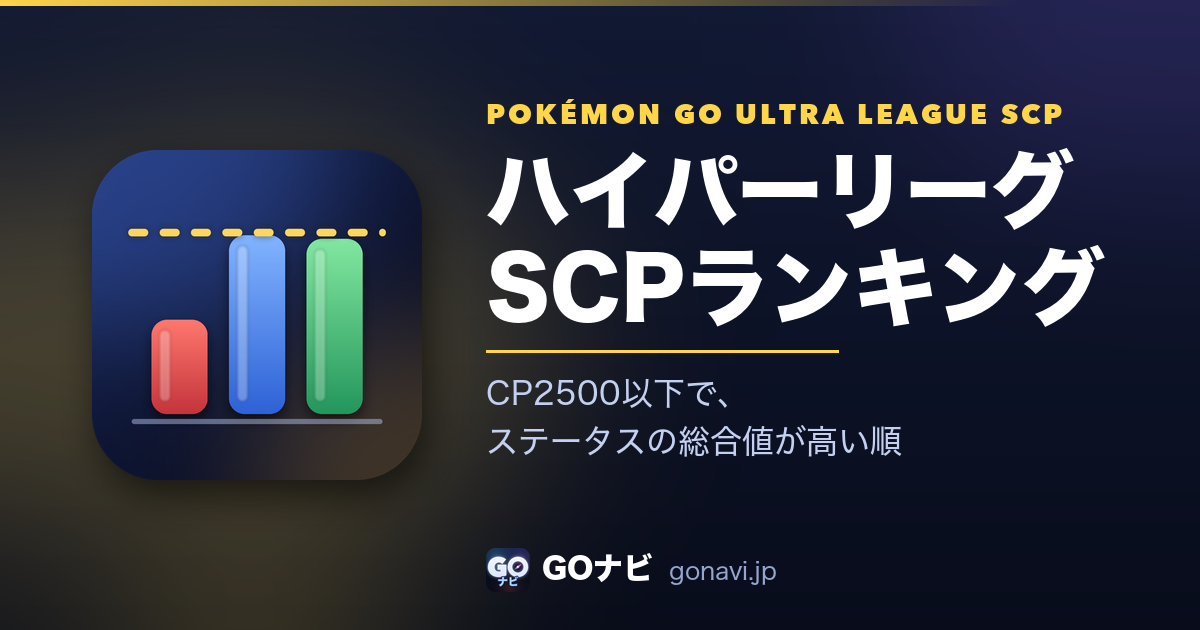
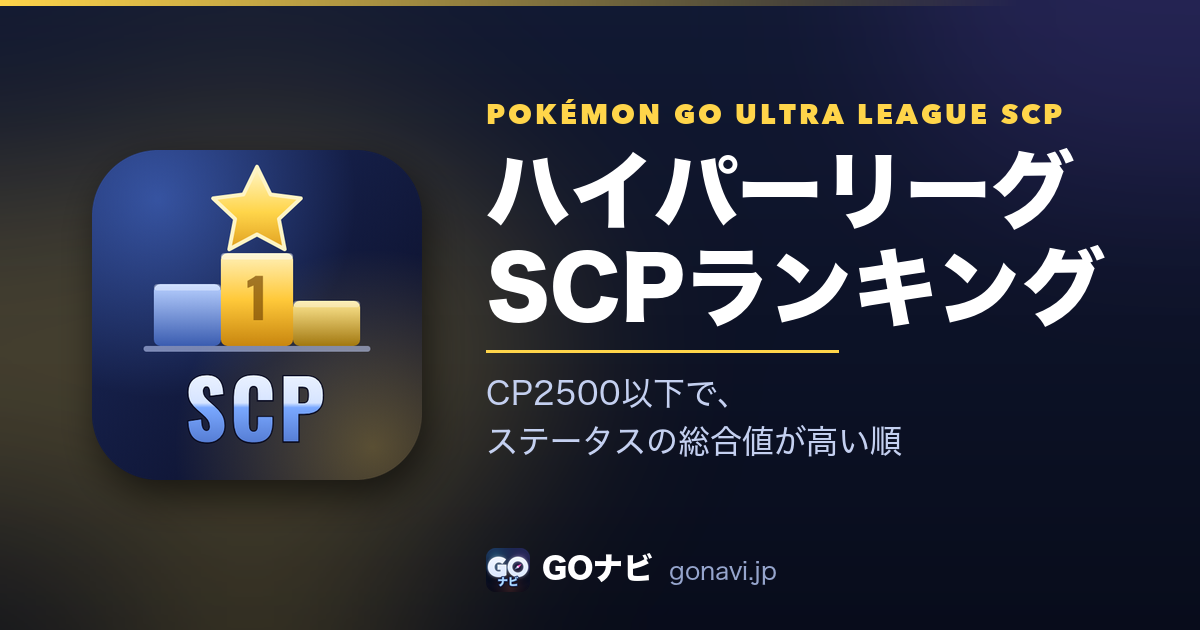
feat(SCPランキング): アイコンを表彰台＋SCPの文字に変更（タダシさん指示）・共有用画像も作り直し

Changed region(s): [[0.0925, 0.2714, 0.3392, 0.7238]]

diff --git a/scratchpad/icon_scp.html b/scratchpad/icon_scp.html
@@ -1,0 +1,49 @@
+<!DOCTYPE html>
+<html><head><meta charset="UTF-8">
+<!-- SCPランキングのアイコン（2026-11-12・タダシさん選択＝表彰台＋その下にSCPの文字）。
+     濃紺の地に、1位の台の上に金の星・2位＝スーパー（青）・3位＝ハイパー（黄）の台、下に「SCP」（白→青の金属の文字）。
+     画面なしブラウザで 512x512 を撮り、scratchpad/icon_round.py が四隅を落として4サイズに書き出す（?prev=1 で見本の並び） -->
+<link rel="stylesheet" href="https://fonts.googleapis.com/css2?family=Oswald:wght@700&display=swap">
+<style>
+html,body{margin:0;background:transparent}
+body.prev{background:linear-gradient(160deg,#0b1023,#131a36 55%,#1a1126);padding:16px;display:flex;gap:16px;align-items:center}
+svg{display:block}
+body:not(.prev) svg{width:512px;height:512px}
+body.prev svg.b{width:200px;height:200px;filter:drop-shadow(0 8px 14px rgba(0,0,0,.45))} body.prev svg.s{width:52px;height:52px}
+</style></head><body>
+<script>
+const id = 'i';
+const ICON = `<defs>
+  <linearGradient id="bg" x1="0" y1="0" x2="1" y2="1"><stop offset="0" stop-color="#1b2a5e"/><stop offset="1" stop-color="#0a0c22"/></linearGradient>
+  <radialGradient id="ga" cx=".2" cy=".15" r=".6"><stop offset="0" stop-color="#5b8cff" stop-opacity=".45"/><stop offset="1" stop-color="#5b8cff" stop-opacity="0"/></radialGradient>
+  <radialGradient id="gb" cx=".85" cy=".9" r=".6"><stop offset="0" stop-color="#ffd54a" stop-opacity=".32"/><stop offset="1" stop-color="#ffd54a" stop-opacity="0"/></radialGradient>
+  <linearGradient id="p1" x1="0" y1="0" x2="0" y2="1"><stop offset="0" stop-color="#fff0b8"/><stop offset=".5" stop-color="#ffc93a"/><stop offset="1" stop-color="#c8860f"/></linearGradient>
+  <linearGradient id="p2" x1="0" y1="0" x2="0" y2="1"><stop offset="0" stop-color="#b8d0ff"/><stop offset="1" stop-color="#3a5cb0"/></linearGradient>
+  <linearGradient id="p3" x1="0" y1="0" x2="0" y2="1"><stop offset="0" stop-color="#ffe892"/><stop offset="1" stop-color="#a27810"/></linearGradient>
+  <linearGradient id="st" x1="0" y1="0" x2="0" y2="1"><stop offset="0" stop-color="#fff6c8"/><stop offset=".55" stop-color="#ffd54a"/><stop offset="1" stop-color="#e0a020"/></linearGradient>
+  <linearGradient id="tx" x1="0" y1="0" x2="0" y2="1"><stop offset="0" stop-color="#ffffff"/><stop offset=".48" stop-color="#d6e4ff"/><stop offset=".52" stop-color="#7aa8ff"/><stop offset="1" stop-color="#3f62b8"/></linearGradient>
+  <clipPath id="cl"><rect width="512" height="512" rx="102"/></clipPath></defs>
+  <g clip-path="url(#cl)">
+  <rect width="512" height="512" fill="url(#bg)"/><rect width="512" height="512" fill="url(#ga)"/><rect width="512" height="512" fill="url(#gb)"/>
+  <!-- 表彰台（台の上面に光・下に影） -->
+  <g transform="translate(0,-6)">
+    <rect x="96" y="214" width="104" height="96" rx="10" fill="url(#p2)"/>
+    <rect x="312" y="240" width="104" height="70" rx="10" fill="url(#p3)"/>
+    <rect x="200" y="166" width="112" height="144" rx="10" fill="url(#p1)"/>
+    <rect x="96" y="214" width="104" height="10" rx="5" fill="#fff" fill-opacity=".35"/>
+    <rect x="312" y="240" width="104" height="10" rx="5" fill="#fff" fill-opacity=".35"/>
+    <rect x="200" y="166" width="112" height="10" rx="5" fill="#fff" fill-opacity=".45"/>
+    <text x="256" y="270" font-family="Oswald" font-weight="700" font-size="84" text-anchor="middle" fill="#7a4c06" fill-opacity=".7">1</text>
+    <path transform="translate(0,-26)" d="M256 58l21 43 47 6-34 32 9 47-43-23-43 23 9-47-34-32 47-6z" fill="url(#st)" stroke="#fff4c4" stroke-width="6" stroke-linejoin="round"/>
+    <rect x="80" y="310" width="352" height="9" rx="4.5" fill="#c8d6ff" fill-opacity=".55"/>
+  </g>
+  <!-- SCP の文字（白→青の金属・濃紺のふち） -->
+  <text x="256" y="452" font-family="Oswald" font-weight="700" font-size="124" text-anchor="middle" fill="url(#tx)" stroke="#0a0c22" stroke-width="5" paint-order="stroke" letter-spacing="6">SCP</text>
+  </g>`;
+const prev = /prev=1/.test(location.search);
+if (prev) document.body.className = 'prev';
+document.body.insertAdjacentHTML('beforeend', prev
+  ? `<svg class="b" viewBox="0 0 512 512">${ICON}</svg><svg class="s" viewBox="0 0 512 512">${ICON}</svg>`
+  : `<svg viewBox="0 0 512 512">${ICON}</svg>`);
+</script>
+</body></html>

diff --git a/scratchpad/icon_round.py b/scratchpad/icon_round.py
@@ -1,0 +1,17 @@
+# アイコンの仕上げ（2026-11-12）: 画面なしブラウザで撮った 512px の絵の四隅を落として（ほかのアイコンと同じ半径102px）、
+# assets/icons/<フォルダ>/ に4サイズ（512・192・180・32）を書き出す。
+# 使い方: python3 scratchpad/icon_round.py 撮った画像.png フォルダ名
+import sys, os
+from PIL import Image, ImageDraw
+S = 512
+im = Image.open(sys.argv[1]).convert('RGBA').resize((S, S), Image.LANCZOS)
+m = Image.new('L', (S * 4, S * 4), 0)
+ImageDraw.Draw(m).rounded_rectangle([0, 0, S * 4 - 1, S * 4 - 1], radius=102 * 4, fill=255)
+im.putalpha(m.resize((S, S), Image.LANCZOS))
+base = os.path.join(os.path.dirname(os.path.abspath(__file__)), '..', 'assets', 'icons', sys.argv[2]) + '/'
+os.makedirs(base, exist_ok=True)
+im.save(base + 'icon-512.png')
+im.resize((192, 192), Image.LANCZOS).save(base + 'icon-192.png')
+im.resize((180, 180), Image.LANCZOS).save(base + 'apple-touch-icon.png')
+im.resize((32, 32), Image.LANCZOS).save(base + 'favicon-32.png')
+print('ok', base)

diff --git a/.claude/rules/dex.md b/.claude/rules/dex.md
@@ -213,7 +213,7 @@ paths:
 - 絞り込み: メガ・ゲンシ／伝説系除く／進化前も（既定は最終進化だけ）／30・50・100位／名前で探す。メーターで見せる値は **「メーター」の見出し＋SCP（既定）｜個体値**（個体値＝攻撃・防御・HPの3本・15は赤／2026-11-11タダシさん指示で「数字｜棒グラフ」から改名）。URL `mg` `nl` `pre` `n` `v=bar`
 - **リーグの切り替え＝もう一方のページへ移る**（絞り込みは引き継ぐ）。**トップページのタイルは1枚**（`/scp/` ＝スーパー・Trainer Battle の中）
 - 「上限に届かない」の札＝15/15/15・PLの上限でもCPが上限以下（そのSCPがそのポケモンの最大）
-- 役割色はリーグの色（スーパー＝青 `scp`／ハイパー＝黄 `scp-hyper`・wordmark）。アイコンは攻撃・防御・HPの3本の棒（赤・青・緑）＋金の点線＝CP上限（`scratchpad/icon_scp.py`・両ページ共通の `assets/icons/scp/`）
+- 役割色はリーグの色（スーパー＝青 `scp`／ハイパー＝黄 `scp-hyper`・wordmark）。アイコンは**表彰台（1位の台に金の星・2位＝スーパーの青・3位＝ハイパーの黄）＋その下に「SCP」の文字**（2026-11-12タダシさん選択・`scratchpad/icon_scp.html` を画面なしブラウザで撮り `scratchpad/icon_round.py` で4サイズ・両ページ共通の `assets/icons/scp/`。旧＝3本の棒は不採用）
 - 出口 `GonaviExport()`＝pl50／pl51 × base／all の全順位。**答え合わせ `scp-rank`**（`.claude/checks/scp-check.html`・19項目）が PL51の全件をGBLシミュレーターの `rank1`、PL50の全件（メガ以外）をステータス図鑑の `maxScp` と突き合わせる。**どちらかの計算を直したら3つそろうかを必ず確かめる**
 - **開発者だけの「🚫 除外」「＋ 未実装」あり**（2026-11-11タダシさん指示）。未実装の候補は対戦データの `r:0`（バトル中だけのすがた・メタモン・ヌケニンを除く）を、読み込み済みの pvp_data から包んで `GonaviDevAdd.mount` に渡す（新しいファイルは作らない・ふつうの人には何も出ない）
 - ⚠ ステータス図鑑の `maxScp` はメガにもPLの下限（lvf）を当てる（GBL・SCPランキングは当てない）。メガで下限のあるポケモン（メガディアンシー等）は図鑑だけ数字が違いうる（未確認・答え合わせはメガを除いて比べている）
